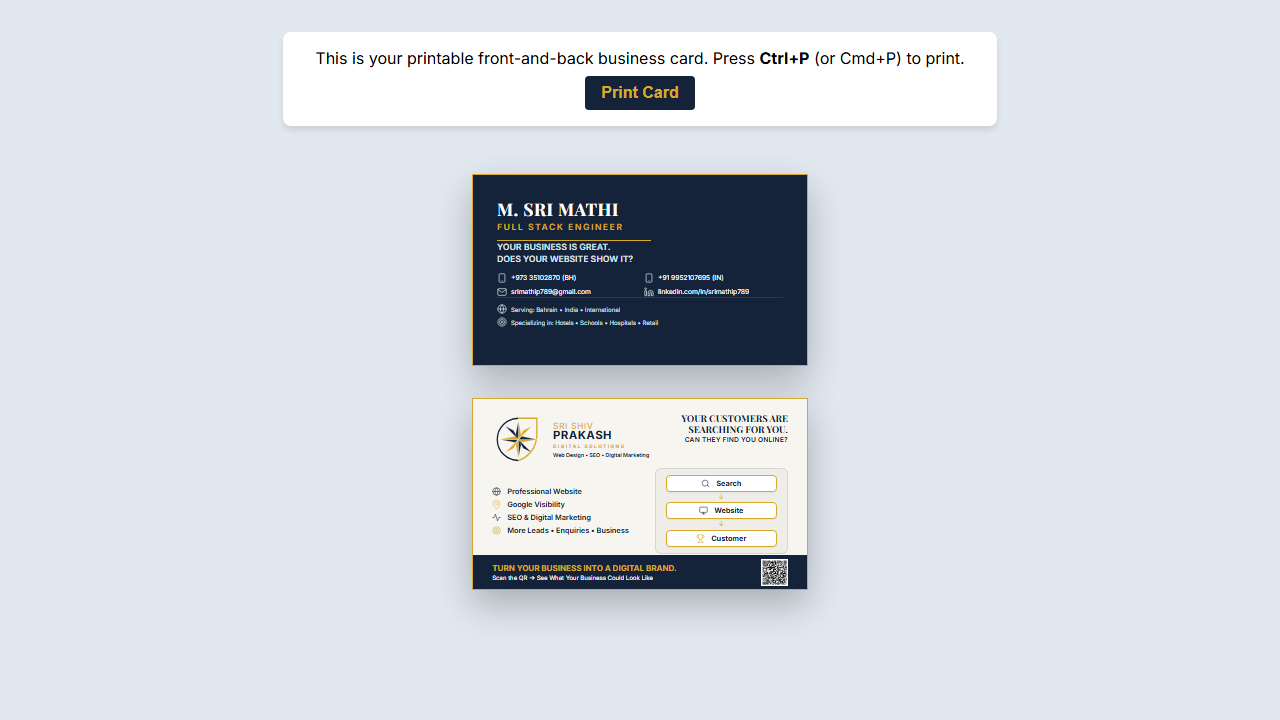
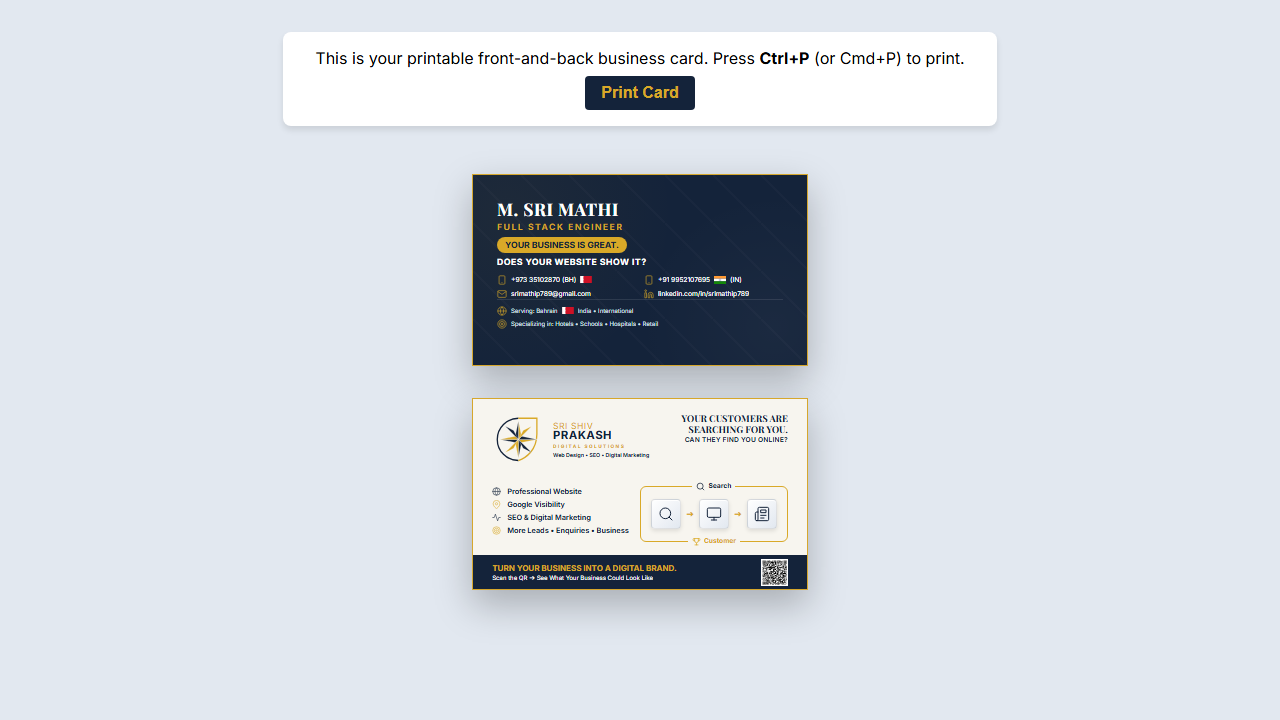
Redesign card to match exact visual reference image

Changed region(s): [[0.375, 0.3056, 0.5, 0.4583], [0.5, 0.6417, 0.625, 0.7639], [0.5, 0.3667, 0.5938, 0.4278]]

diff --git a/index.html b/index.html
@@ -19,23 +19,23 @@
             <div class="front-top">
                 <h1 class="name">M. SRI MATHI</h1>
                 <h2 class="title">FULL STACK ENGINEER</h2>
-                <div class="divider"></div>
             </div>
             
             <div class="front-middle">
-                <p class="slogan">YOUR BUSINESS IS GREAT.<br>DOES YOUR WEBSITE SHOW IT?</p>
+                <div class="slogan-badge">YOUR BUSINESS IS GREAT.</div>
+                <p class="slogan">DOES YOUR WEBSITE SHOW IT?</p>
                 
                 <div class="contact-grid">
-                    <div class="contact-item"><svg class="c-icon" viewBox="0 0 24 24" width="10" height="10" stroke="currentColor" stroke-width="1.5" stroke-linecap="round" stroke-linejoin="round" fill="none"><rect x="5" y="2" width="14" height="20" rx="2" ry="2"></rect><line x1="12" y1="18" x2="12.01" y2="18"></line></svg> +973 35102870 (BH)</div>
-                    <div class="contact-item"><svg class="c-icon" viewBox="0 0 24 24" width="10" height="10" stroke="currentColor" stroke-width="1.5" stroke-linecap="round" stroke-linejoin="round" fill="none"><rect x="5" y="2" width="14" height="20" rx="2" ry="2"></rect><line x1="12" y1="18" x2="12.01" y2="18"></line></svg> +91 9952107695 (IN)</div>
-                    <div class="contact-item"><svg class="c-icon" viewBox="0 0 24 24" width="10" height="10" stroke="currentColor" stroke-width="1.5" stroke-linecap="round" stroke-linejoin="round" fill="none"><path d="M4 4h16c1.1 0 2 .9 2 2v12c0 1.1-.9 2-2 2H4c-1.1 0-2-.9-2-2V6c0-1.1.9-2 2-2z"></path><polyline points="22,6 12,13 2,6"></polyline></svg> srimathip789@gmail.com</div>
-                    <div class="contact-item"><svg class="c-icon" viewBox="0 0 24 24" width="10" height="10" stroke="currentColor" stroke-width="1.5" stroke-linecap="round" stroke-linejoin="round" fill="none"><path d="M16 8a6 6 0 0 1 6 6v7h-4v-7a2 2 0 0 0-2-2 2 2 0 0 0-2 2v7h-4v-7a6 6 0 0 1 6-6z"></path><rect x="2" y="9" width="4" height="12"></rect><circle cx="4" cy="4" r="2"></circle></svg> linkedin.com/in/srimathip789</div>
+                    <div class="contact-item"><svg class="c-icon" viewBox="0 0 24 24" width="10" height="10" stroke="var(--gold)" stroke-width="1.5" stroke-linecap="round" stroke-linejoin="round" fill="none"><rect x="5" y="2" width="14" height="20" rx="2" ry="2"></rect><line x1="12" y1="18" x2="12.01" y2="18"></line></svg> +973 35102870 (BH) <svg class="flag-icon" viewBox="0 0 5 3" width="12" height="7"><rect width="5" height="3" fill="#CE1126"/><polygon points="0,0 1.25,0 1.25,3 0,3" fill="#FFFFFF"/><polygon points="1.25,0 1.6,0.3 1.25,0.6 1.6,0.9 1.25,1.2 1.6,1.5 1.25,1.8 1.6,2.1 1.25,2.4 1.6,2.7 1.25,3 1.25,0" fill="#FFFFFF"/></svg></div>
+                    <div class="contact-item"><svg class="c-icon" viewBox="0 0 24 24" width="10" height="10" stroke="var(--gold)" stroke-width="1.5" stroke-linecap="round" stroke-linejoin="round" fill="none"><rect x="5" y="2" width="14" height="20" rx="2" ry="2"></rect><line x1="12" y1="18" x2="12.01" y2="18"></line></svg> +91 9952107695 <svg class="flag-icon" viewBox="0 0 9 6" width="12" height="8"><rect width="9" height="2" fill="#FF9933"/><rect y="2" width="9" height="2" fill="#FFFFFF"/><rect y="4" width="9" height="2" fill="#138808"/><circle cx="4.5" cy="3" r="0.8" fill="none" stroke="#000080" stroke-width="0.1"/><circle cx="4.5" cy="3" r="0.3" fill="#000080"/></svg> (IN)</div>
+                    <div class="contact-item"><svg class="c-icon" viewBox="0 0 24 24" width="10" height="10" stroke="var(--gold)" stroke-width="1.5" stroke-linecap="round" stroke-linejoin="round" fill="none"><path d="M4 4h16c1.1 0 2 .9 2 2v12c0 1.1-.9 2-2 2H4c-1.1 0-2-.9-2-2V6c0-1.1.9-2 2-2z"></path><polyline points="22,6 12,13 2,6"></polyline></svg> srimathip789@gmail.com</div>
+                    <div class="contact-item"><svg class="c-icon" viewBox="0 0 24 24" width="10" height="10" stroke="var(--gold)" stroke-width="1.5" stroke-linecap="round" stroke-linejoin="round" fill="none"><path d="M16 8a6 6 0 0 1 6 6v7h-4v-7a2 2 0 0 0-2-2 2 2 0 0 0-2 2v7h-4v-7a6 6 0 0 1 6-6z"></path><rect x="2" y="9" width="4" height="12"></rect><circle cx="4" cy="4" r="2"></circle></svg> linkedin.com/in/srimathip789</div>
                 </div>
             </div>
 
             <div class="front-bottom">
-                <div class="info-item"><svg class="c-icon" viewBox="0 0 24 24" width="10" height="10" stroke="currentColor" stroke-width="1.5" stroke-linecap="round" stroke-linejoin="round" fill="none"><circle cx="12" cy="12" r="10"></circle><line x1="2" y1="12" x2="22" y2="12"></line><path d="M12 2a15.3 15.3 0 0 1 4 10 15.3 15.3 0 0 1-4 10 15.3 15.3 0 0 1-4-10 15.3 15.3 0 0 1 4-10z"></path></svg> Serving: Bahrain • India • International</div>
-                <div class="info-item"><svg class="c-icon" viewBox="0 0 24 24" width="10" height="10" stroke="currentColor" stroke-width="1.5" stroke-linecap="round" stroke-linejoin="round" fill="none"><circle cx="12" cy="12" r="10"></circle><circle cx="12" cy="12" r="6"></circle><circle cx="12" cy="12" r="2"></circle></svg> Specializing in: Hotels • Schools • Hospitals • Retail</div>
+                <div class="info-item"><svg class="c-icon" viewBox="0 0 24 24" width="10" height="10" stroke="var(--gold)" stroke-width="1.5" stroke-linecap="round" stroke-linejoin="round" fill="none"><circle cx="12" cy="12" r="10"></circle><line x1="2" y1="12" x2="22" y2="12"></line><path d="M12 2a15.3 15.3 0 0 1 4 10 15.3 15.3 0 0 1-4 10 15.3 15.3 0 0 1-4-10 15.3 15.3 0 0 1 4-10z"></path></svg> Serving: Bahrain <svg class="flag-icon" viewBox="0 0 5 3" width="12" height="7"><rect width="5" height="3" fill="#CE1126"/><polygon points="0,0 1.25,0 1.25,3 0,3" fill="#FFFFFF"/><polygon points="1.25,0 1.6,0.3 1.25,0.6 1.6,0.9 1.25,1.2 1.6,1.5 1.25,1.8 1.6,2.1 1.25,2.4 1.6,2.7 1.25,3 1.25,0" fill="#FFFFFF"/></svg> India • International</div>
+                <div class="info-item"><svg class="c-icon" viewBox="0 0 24 24" width="10" height="10" stroke="var(--gold)" stroke-width="1.5" stroke-linecap="round" stroke-linejoin="round" fill="none"><circle cx="12" cy="12" r="10"></circle><circle cx="12" cy="12" r="6"></circle><circle cx="12" cy="12" r="2"></circle></svg> Specializing in: Hotels • Schools • Hospitals • Retail</div>
             </div>
         </div>
     </div>
@@ -94,12 +94,28 @@
                 </ul>
             </div>
             <div class="flow-col">
-                <div class="flow-pill-container">
-                    <div class="flow-pill"><svg viewBox="0 0 24 24" width="9" height="9" stroke="var(--navy)" stroke-width="1.5" stroke-linecap="round" stroke-linejoin="round" fill="none"><circle cx="11" cy="11" r="8"></circle><line x1="21" y1="21" x2="16.65" y2="16.65"></line></svg> Search</div>
-                    <div class="flow-arrow">↓</div>
-                    <div class="flow-pill"><svg viewBox="0 0 24 24" width="9" height="9" stroke="var(--navy)" stroke-width="1.5" stroke-linecap="round" stroke-linejoin="round" fill="none"><rect x="2" y="3" width="20" height="14" rx="2" ry="2"></rect><line x1="8" y1="21" x2="16" y2="21"></line><line x1="12" y1="17" x2="12" y2="21"></line></svg> Website</div>
-                    <div class="flow-arrow">↓</div>
-                    <div class="flow-pill"><svg viewBox="0 0 24 24" width="9" height="9" stroke="var(--gold)" stroke-width="1.5" stroke-linecap="round" stroke-linejoin="round" fill="none"><path d="M6 9H4.5a2.5 2.5 0 0 1 0-5H6"></path><path d="M18 9h1.5a2.5 2.5 0 0 0 0-5H18"></path><path d="M4 22h16"></path><path d="M10 14.66V17c0 .55-.47.98-.97 1.21C7.85 18.75 7 20.24 7 22"></path><path d="M14 14.66V17c0 .55.47.98.97 1.21C16.15 18.75 17 20.24 17 22"></path><path d="M18 2H6v7a6 6 0 0 0 12 0V2Z"></path></svg> Customer</div>
+                <div class="flow-box">
+                    <div class="flow-top-label">
+                        <svg viewBox="0 0 24 24" width="9" height="9" stroke="currentColor" stroke-width="2" stroke-linecap="round" stroke-linejoin="round" fill="none"><circle cx="11" cy="11" r="8"></circle><line x1="21" y1="21" x2="16.65" y2="16.65"></line></svg>
+                        Search
+                    </div>
+                    <div class="flow-diagram">
+                        <div class="flow-step">
+                            <svg viewBox="0 0 24 24" width="16" height="16" stroke="var(--navy)" stroke-width="1.5" stroke-linecap="round" stroke-linejoin="round" fill="none"><circle cx="11" cy="11" r="8"></circle><line x1="21" y1="21" x2="16.65" y2="16.65"></line></svg>
+                        </div>
+                        <div class="flow-arrow-right">➔</div>
+                        <div class="flow-step">
+                            <svg viewBox="0 0 24 24" width="16" height="16" stroke="var(--navy)" stroke-width="1.5" stroke-linecap="round" stroke-linejoin="round" fill="none"><rect x="2" y="3" width="20" height="14" rx="2" ry="2"></rect><line x1="8" y1="21" x2="16" y2="21"></line><line x1="12" y1="17" x2="12" y2="21"></line></svg>
+                        </div>
+                        <div class="flow-arrow-right">➔</div>
+                        <div class="flow-step">
+                            <svg viewBox="0 0 24 24" width="16" height="16" stroke="var(--navy)" stroke-width="1.5" stroke-linecap="round" stroke-linejoin="round" fill="none"><path d="M4 22h16a2 2 0 0 0 2-2V4a2 2 0 0 0-2-2H8a2 2 0 0 0-2 2v16a2 2 0 0 1-2 2Zm0 0a2 2 0 0 1-2-2v-9c0-1.1.9-2 2-2h2"></path><path d="M18 14h-8"></path><path d="M15 18h-5"></path><path d="M10 6h8v4h-8V6Z"></path></svg>
+                        </div>
+                    </div>
+                    <div class="flow-bottom-label">
+                        <svg viewBox="0 0 24 24" width="9" height="9" stroke="currentColor" stroke-width="2" stroke-linecap="round" stroke-linejoin="round" fill="none"><path d="M8 21h8"></path><path d="M12 17v4"></path><path d="M7 4h10v6a5 5 0 0 1-10 0V4z"></path><path d="M7 4H5a2 2 0 0 0-2 2v2a2 2 0 0 0 2 2h2"></path><path d="M17 4h2a2 2 0 0 1 2 2v2a2 2 0 0 1-2 2h-2"></path></svg>
+                        Customer
+                    </div>
                 </div>
             </div>
         </div>

diff --git a/styles.css b/styles.css
@@ -58,6 +58,11 @@ body {
 /* --- FRONT CARD --- */
 .card-front {
     background: var(--navy);
+    background-image: 
+        radial-gradient(circle at 10% 20%, rgba(217, 169, 40, 0.05) 0%, transparent 50%),
+        radial-gradient(circle at 90% 80%, rgba(255, 255, 255, 0.03) 0%, transparent 40%),
+        linear-gradient(45deg, transparent 48%, rgba(255,255,255,0.02) 49%, rgba(255,255,255,0.02) 51%, transparent 52%);
+    background-size: 100% 100%, 100% 100%, 0.5in 0.5in;
     color: var(--white);
     padding: 0.25in;
     display: flex;
@@ -94,11 +99,22 @@ body {
     margin-top: 8px;
 }
 
+.slogan-badge {
+    background: var(--gold);
+    color: var(--navy);
+    font-size: 6.5pt;
+    font-weight: 800;
+    padding: 3px 8px;
+    border-radius: 12px;
+    display: inline-block;
+    margin-bottom: 4px;
+}
+
 .slogan {
     font-size: 6.5pt;
-    font-weight: 600;
-    color: var(--soft-white);
-    line-height: 1.4;
+    font-weight: 700;
+    color: var(--white);
+    letter-spacing: 0.5px;
     margin-bottom: 8px;
 }
 
@@ -257,43 +273,59 @@ body {
 }
 
 .flow-col {
-    width: 45%;
+    width: 50%;
     display: flex;
     justify-content: flex-end;
 }
-.flow-pill-container {
+.flow-box {
+    position: relative;
+    border: 1px solid var(--gold);
+    border-radius: 6px;
+    padding: 12px 10px;
     display: flex;
     flex-direction: column;
     align-items: center;
-    background: rgba(0, 0, 0, 0.03); 
-    padding: 6px 10px;
-    border-radius: 6px;
-    border: 0.5px solid rgba(0, 0, 0, 0.1);
-    width: 1.4in;
+    width: 1.6in;
+    margin-top: 6px;
 }
-.flow-pill {
-    background: var(--white);
-    border: 0.5px solid var(--gold);
-    border-radius: 4px;
-    padding: 3px 0;
-    font-size: 5.5pt;
+.flow-top-label, .flow-bottom-label {
+    position: absolute;
+    background: var(--off-white);
+    padding: 0 4px;
+    font-size: 5pt;
     font-weight: 700;
-    color: var(--navy);
     display: flex;
     align-items: center;
-    gap: 6px;
-    width: 100%;
-    justify-content: center;
-    box-shadow: 0 1px 2px rgba(0,0,0,0.05);
+    gap: 3px;
 }
-.flow-pill svg {
-    /* Colors applied individually in html */
+.flow-top-label {
+    top: -5px;
+    color: var(--navy);
 }
-.flow-arrow {
-    font-size: 5pt;
+.flow-bottom-label {
+    bottom: -5px;
     color: var(--gold);
-    line-height: 1;
-    margin: 2px 0;
+}
+.flow-diagram {
+    display: flex;
+    align-items: center;
+    gap: 4px;
+    width: 100%;
+    justify-content: space-between;
+}
+.flow-step {
+    background: linear-gradient(135deg, #ffffff 0%, #e2e8f0 100%);
+    border: 0.5px solid rgba(0,0,0,0.1);
+    border-radius: 4px;
+    padding: 6px;
+    display: flex;
+    align-items: center;
+    justify-content: center;
+    box-shadow: 0 2px 4px rgba(0,0,0,0.1), inset 0 1px 0 rgba(255,255,255,1);
+}
+.flow-arrow-right {
+    font-size: 6pt;
+    color: var(--gold);
 }
 
 .back-footer {
